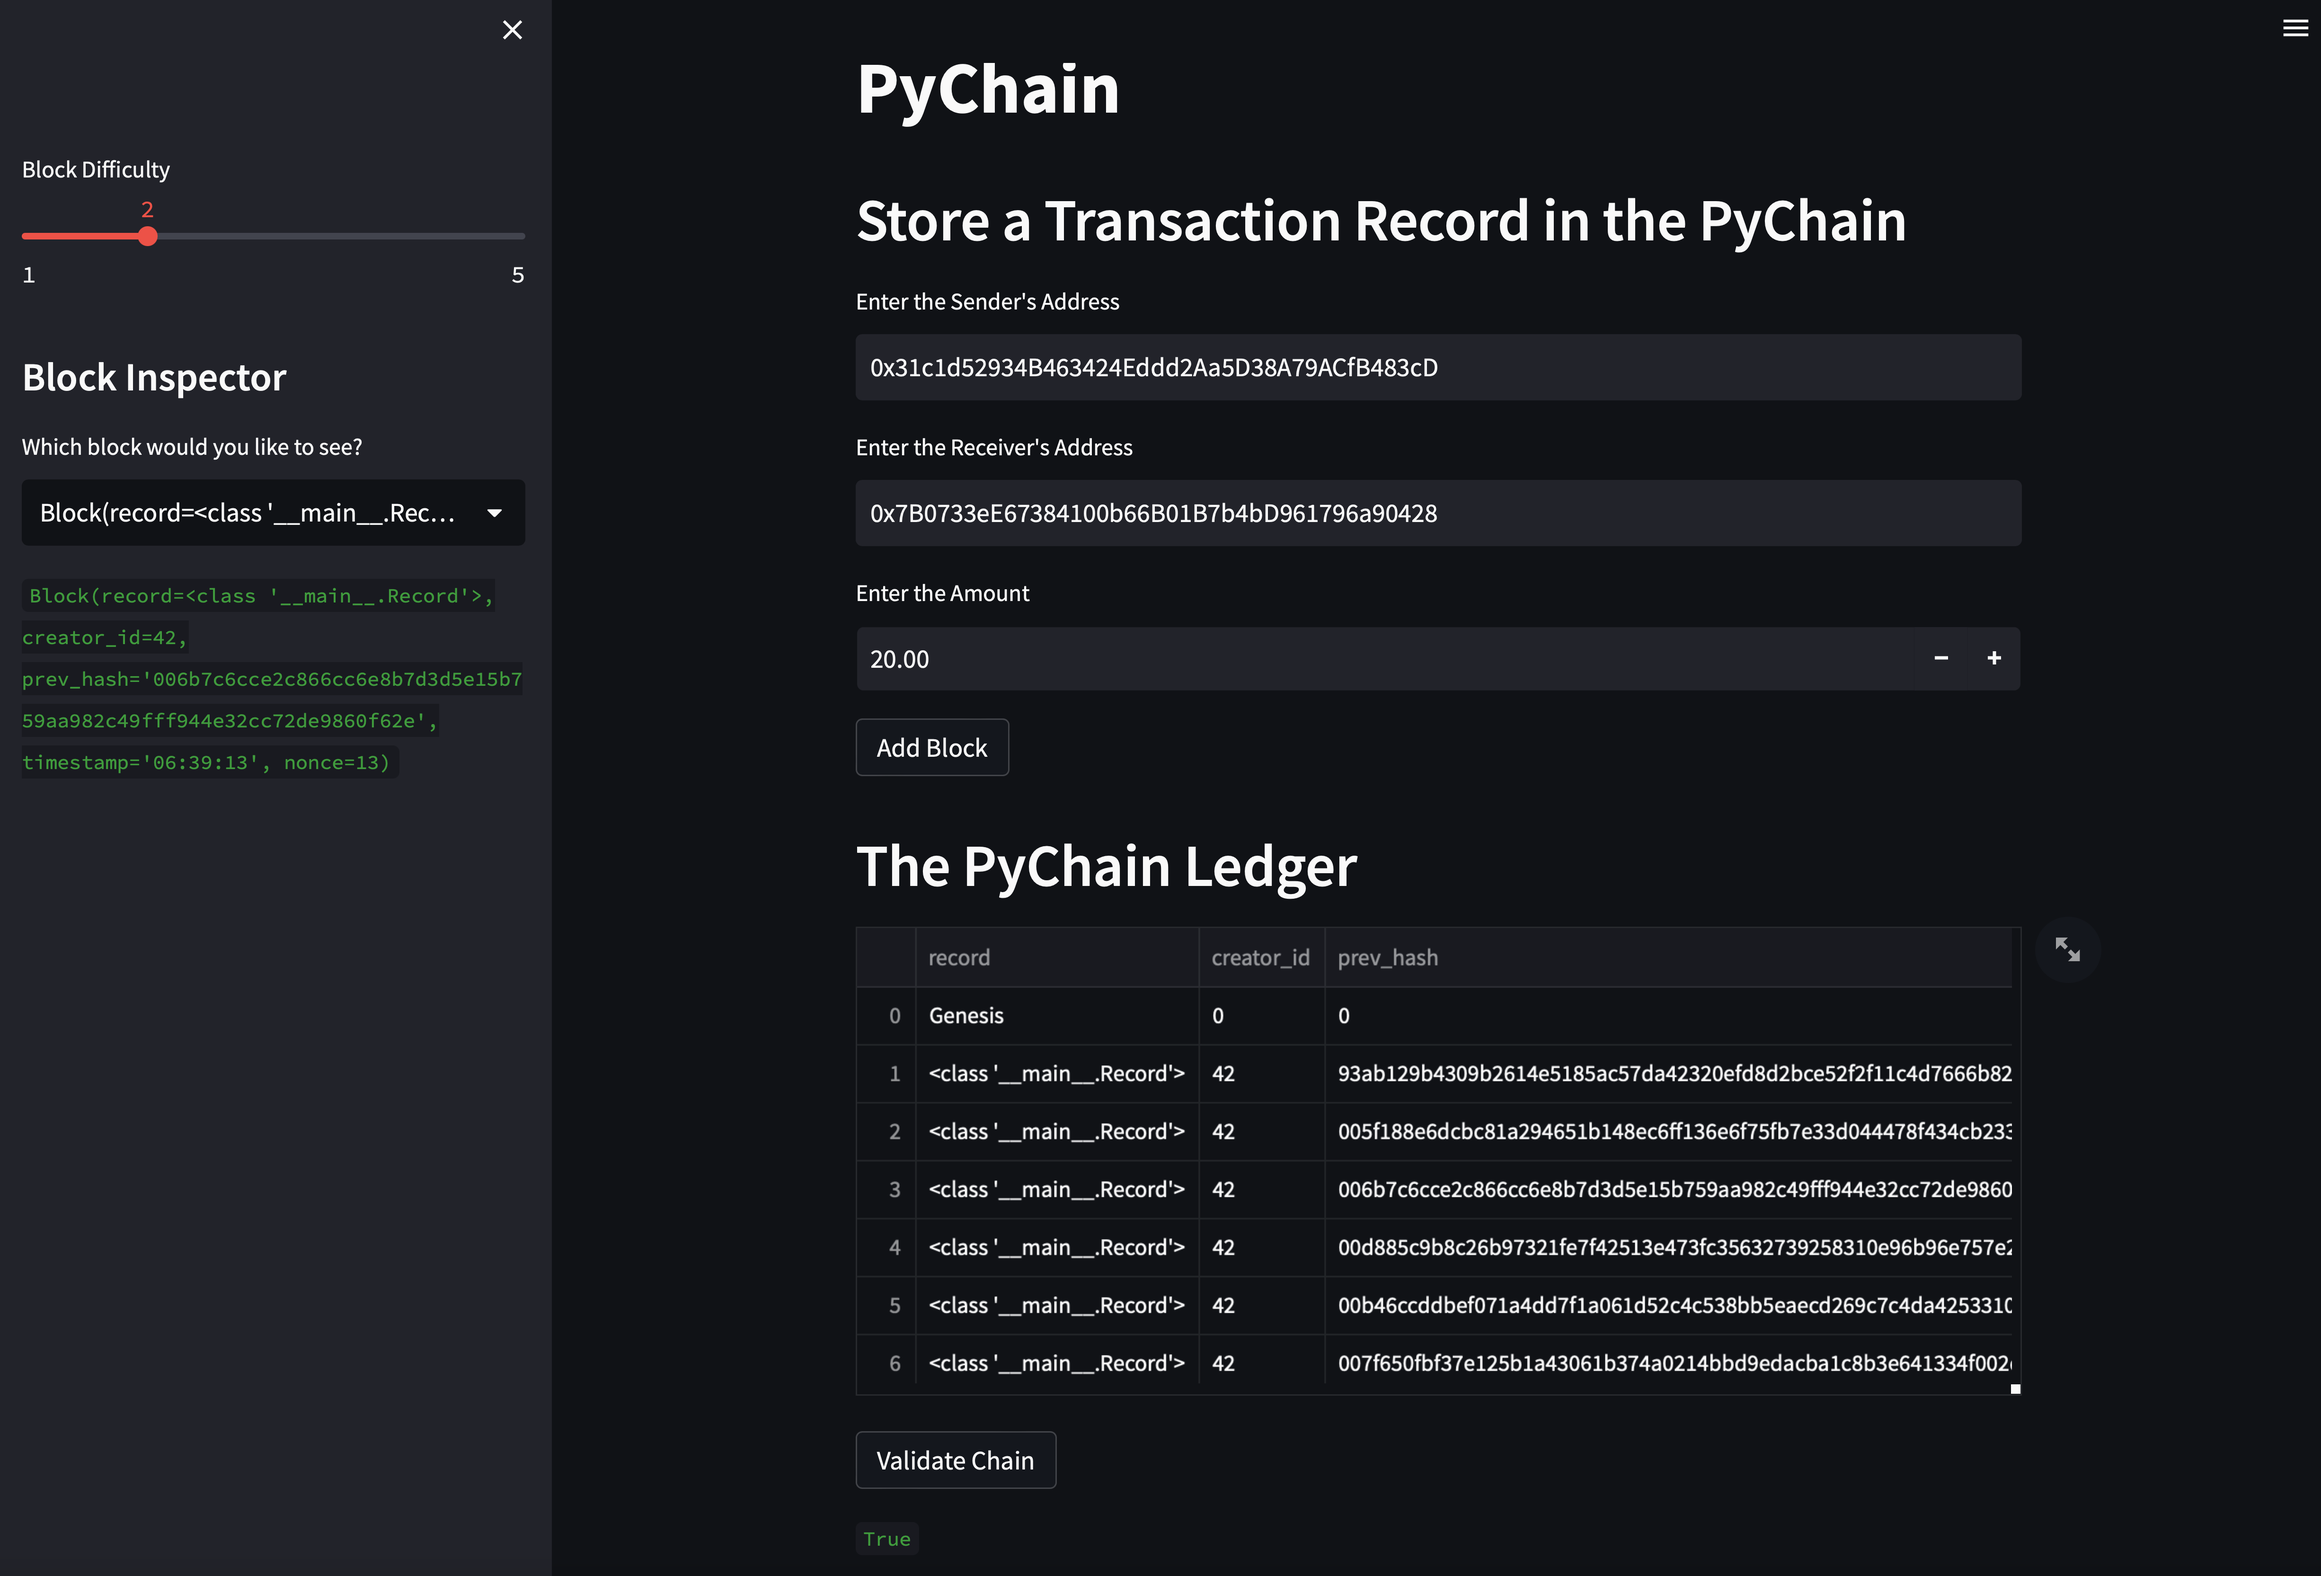
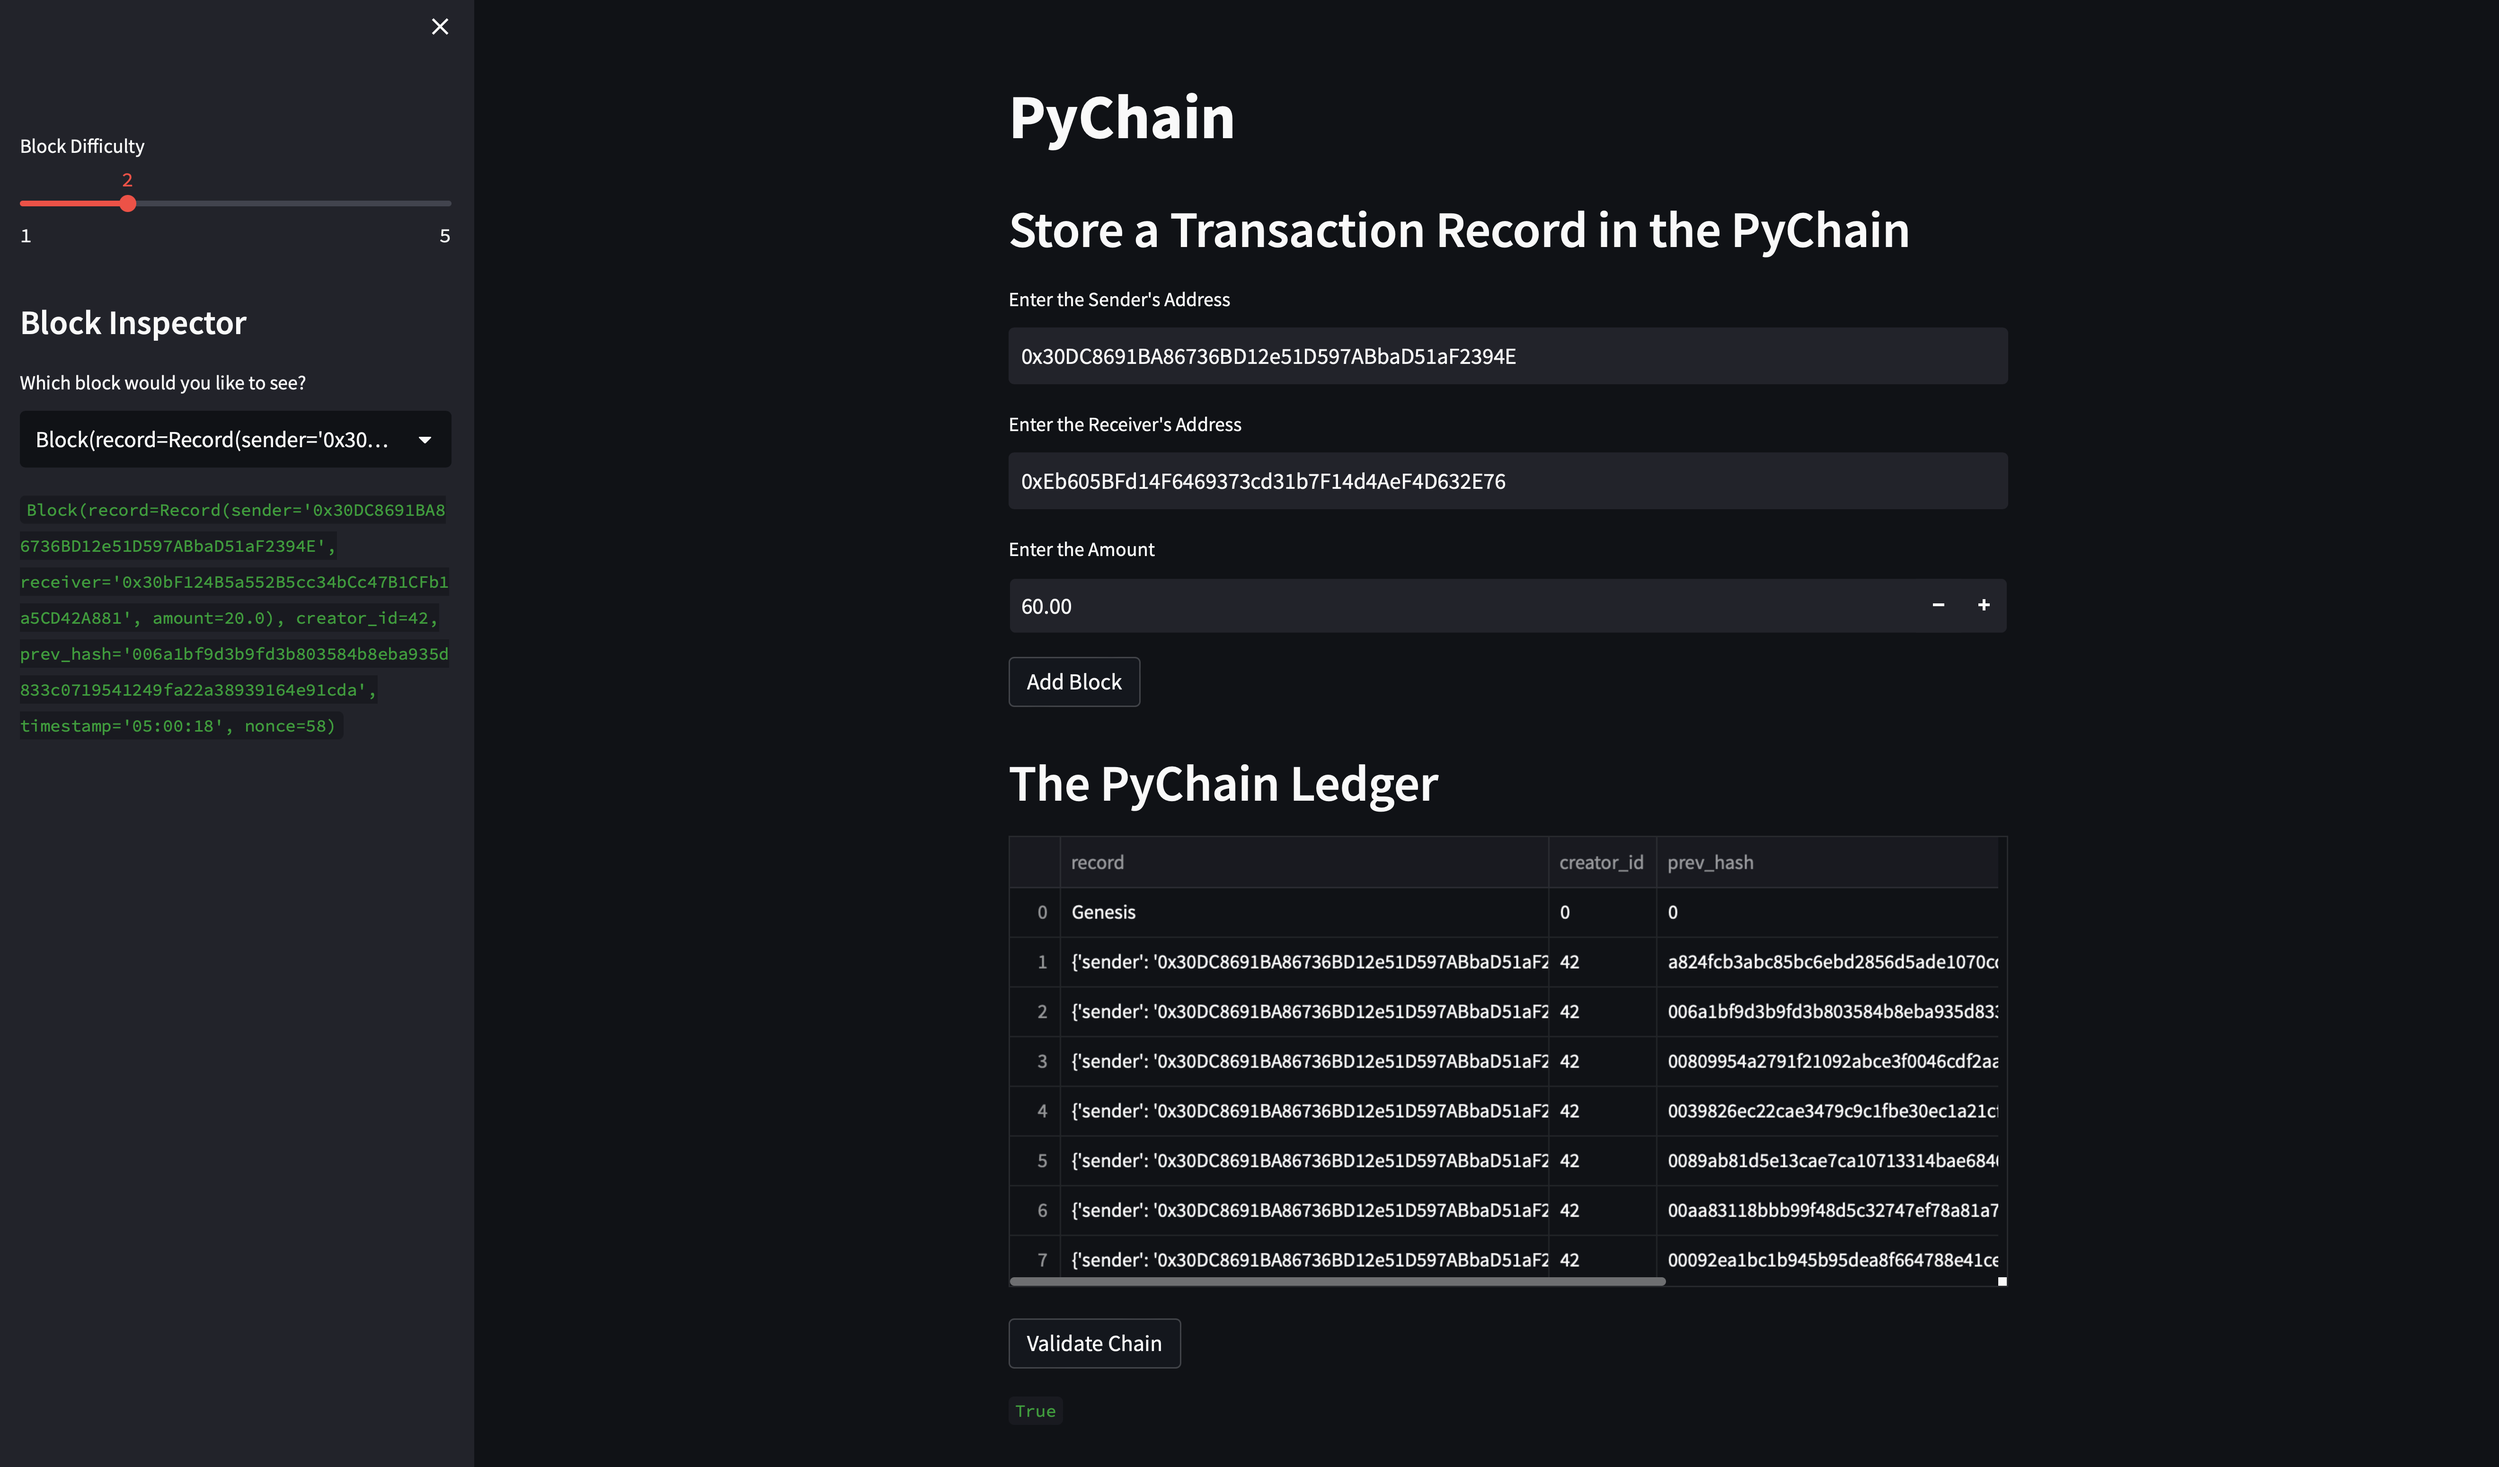
Add files via upload

diff --git a/Starter_Code/pychain.py b/Starter_Code/pychain.py
@@ -191,7 +191,7 @@ if st.button("Add Block"):
     # which is set equal to a `Record` that contains the `sender`, `receiver`,
     # and `amount` values
     new_block = Block(
-        record=Record,
+        record=Record(sender,receiver, amount),
         creator_id=42,
         prev_hash=prev_block_hash
     )
